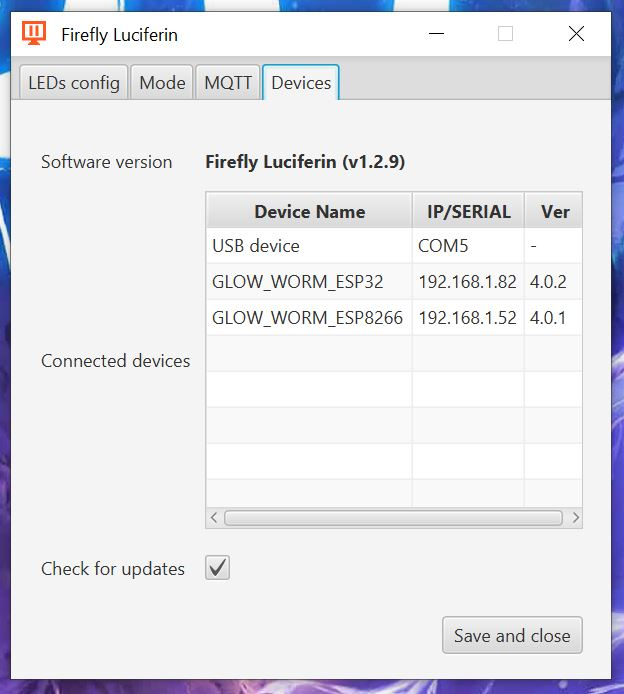
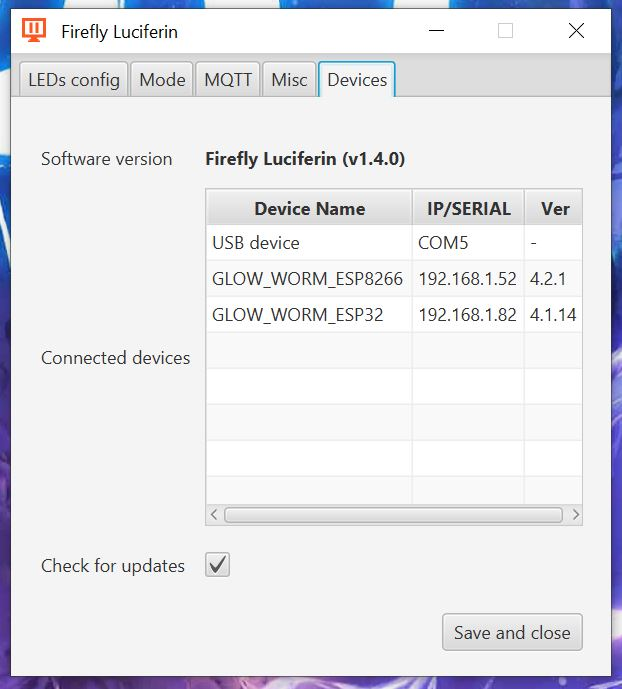
misc tab

diff --git a/src/main/java/org/dpsoftware/config/Constants.java b/src/main/java/org/dpsoftware/config/Constants.java
@@ -187,15 +187,19 @@ public class Constants {
     public static final String TOOLTIP_NUMBEROFTHREADS = "1 thread is enough when using DDUPL, 3 or more threads are recommended for other capture methods";
     public static final String TOOLTIP_SERIALPORT = "AUTO detects first serial port available, change it if you have more than one serial port available";
     public static final String TOOLTIP_ASPECTRATIO = "LetterBox is recommended for films, you can change this option later";
-    public static final String TOOLTIP_MQTTHOST = "OPTIONAL: MQTT protocol://host";
+	public static final String TOOLTIP_FRAMERATE = "30 FPS IS THE RECOMMENDED FRAMERATE, use at your own risk.";
+	public static final String TOOLTIP_MQTTHOST = "OPTIONAL: MQTT protocol://host";
     public static final String TOOLTIP_MQTTPORT = "OPTIONAL: MQTT port";
     public static final String TOOLTIP_MQTTTOPIC = "OPTIONAL: MQTT topic, used to start/stop capturing. Don't change it if you want to use Glow Worm Luciferin Firmware.";
     public static final String TOOLTIP_MQTTUSER = "OPTIONAL: MQTT username";
     public static final String TOOLTIP_MQTTPWD = "OPTIONAL: MQTT password";
-    public static final String TOOLTIP_MQTTENABLE = "FULL firmware requires MQTT";
+	public static final String TOOLTIP_MQTTENABLE = "FULL firmware requires MQTT";
+	public static final String TOOLTIP_EYE_CARE = "If enabled LEDs will never turn off in black scenes, a soft and gentle light is instead.";
+	public static final String TOOLTIP_AUTOSTART = "Start capture on Firefly Luciferin startup";
 	public static final String TOOLTIP_MQTTSTREAM = "Prefer wireless stream over serial port (USB cable). This option is ignored if MQTT is disabled. Enable this option if you don't have the possibility to use a USB cable.";
 	public static final String TOOLTIP_CHECK_UPDATES = "Set and forget it to update Firefly Luciferin and Glow Worm Luciferin when updates are available. Automatic firmware upgrade is available on FULL version only";
 	public static final String TOOLTIP_PLAYBUTTON_NULL = "Please configure and save before capturing";
+	public static final String TOOLTIP_BRIGHTNESS = "Set the brightness of the LED strip";
     public static final String TOOLTIP_SAVELEDBUTTON_NULL = "You can change this options later";
     public static final String TOOLTIP_SAVEMQTTBUTTON_NULL = "You can change this options later";
 	public static final String TOOLTIP_SAVESETTINGSBUTTON_NULL = "You can change this options later";

diff --git a/src/main/java/org/dpsoftware/gui/SettingsController.java b/src/main/java/org/dpsoftware/gui/SettingsController.java
@@ -736,7 +736,7 @@ public class SettingsController {
         numberOfThreads.setTooltip(createTooltip(Constants.TOOLTIP_NUMBEROFTHREADS));
         serialPort.setTooltip(createTooltip(Constants.TOOLTIP_SERIALPORT));
         aspectRatio.setTooltip(createTooltip(Constants.TOOLTIP_ASPECTRATIO));
-        framerate.setTooltip(createTooltip(Constants.TOOLTIP_ASPECTRATIO));
+        framerate.setTooltip(createTooltip(Constants.TOOLTIP_FRAMERATE));
 
         mqttHost.setTooltip(createTooltip(Constants.TOOLTIP_MQTTHOST));
         mqttPort.setTooltip(createTooltip(Constants.TOOLTIP_MQTTPORT));
@@ -744,11 +744,11 @@ public class SettingsController {
         mqttUser.setTooltip(createTooltip(Constants.TOOLTIP_MQTTUSER));
         mqttPwd.setTooltip(createTooltip(Constants.TOOLTIP_MQTTPWD));
         mqttEnable.setTooltip(createTooltip(Constants.TOOLTIP_MQTTENABLE));
-        eyeCare.setTooltip(createTooltip(Constants.TOOLTIP_MQTTENABLE));
-        autoStart.setTooltip(createTooltip(Constants.TOOLTIP_MQTTENABLE));
+        eyeCare.setTooltip(createTooltip(Constants.TOOLTIP_EYE_CARE));
+        autoStart.setTooltip(createTooltip(Constants.TOOLTIP_AUTOSTART));
         mqttStream.setTooltip(createTooltip(Constants.TOOLTIP_MQTTSTREAM));
         checkForUpdates.setTooltip(createTooltip(Constants.TOOLTIP_CHECK_UPDATES));
-        brightness.setTooltip(createTooltip(Constants.TOOLTIP_CHECK_UPDATES));
+        brightness.setTooltip(createTooltip(Constants.TOOLTIP_BRIGHTNESS));
 
         if (currentConfig == null) {
             if (!com.sun.jna.Platform.isWindows()) {
